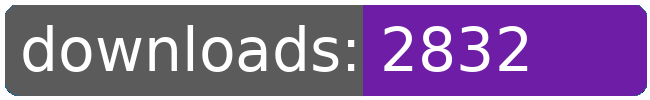
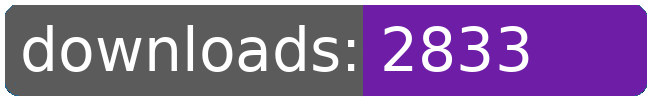
dl log written

Changed region(s): [[0.7692, 0.42, 0.8308, 0.72], [0.7692, 0.27, 0.8, 0.36], [0.8, 0.36, 0.8308, 0.39]]

diff --git a/README.md b/README.md
@@ -186,8 +186,8 @@
 		<td>2784</td>
 		<td>2801</td>
 		<td>2821</td>
-		<td>2832</td>
-		<td>+ 11</td>
+		<td>2833</td>
+		<td>+ 12</td>
 	</tr>
 	<tr>
 		<td>quargoutfitter</td>
@@ -274,8 +274,8 @@
 		<td></td>
 		<td></td>
 		<td></td>
-		<td>53444</td>
-		<td>199</td>
+		<td>53445</td>
+		<td>200</td>
 	</tr>
 </table>
 </sub></sup>
@@ -377,8 +377,8 @@
 		<td>2784</td>
 		<td>2801</td>
 		<td>2821</td>
-		<td>2832</td>
-		<td>+ 11</td>
+		<td>2833</td>
+		<td>+ 12</td>
 	</tr>
 	<tr>
 		<td>quargoutfitter</td>
@@ -553,8 +553,8 @@
 		<td></td>
 		<td></td>
 		<td></td>
-		<td>53444</td>
-		<td>199</td>
+		<td>53445</td>
+		<td>200</td>
 	</tr>
 </table>
 </sub></sup>
